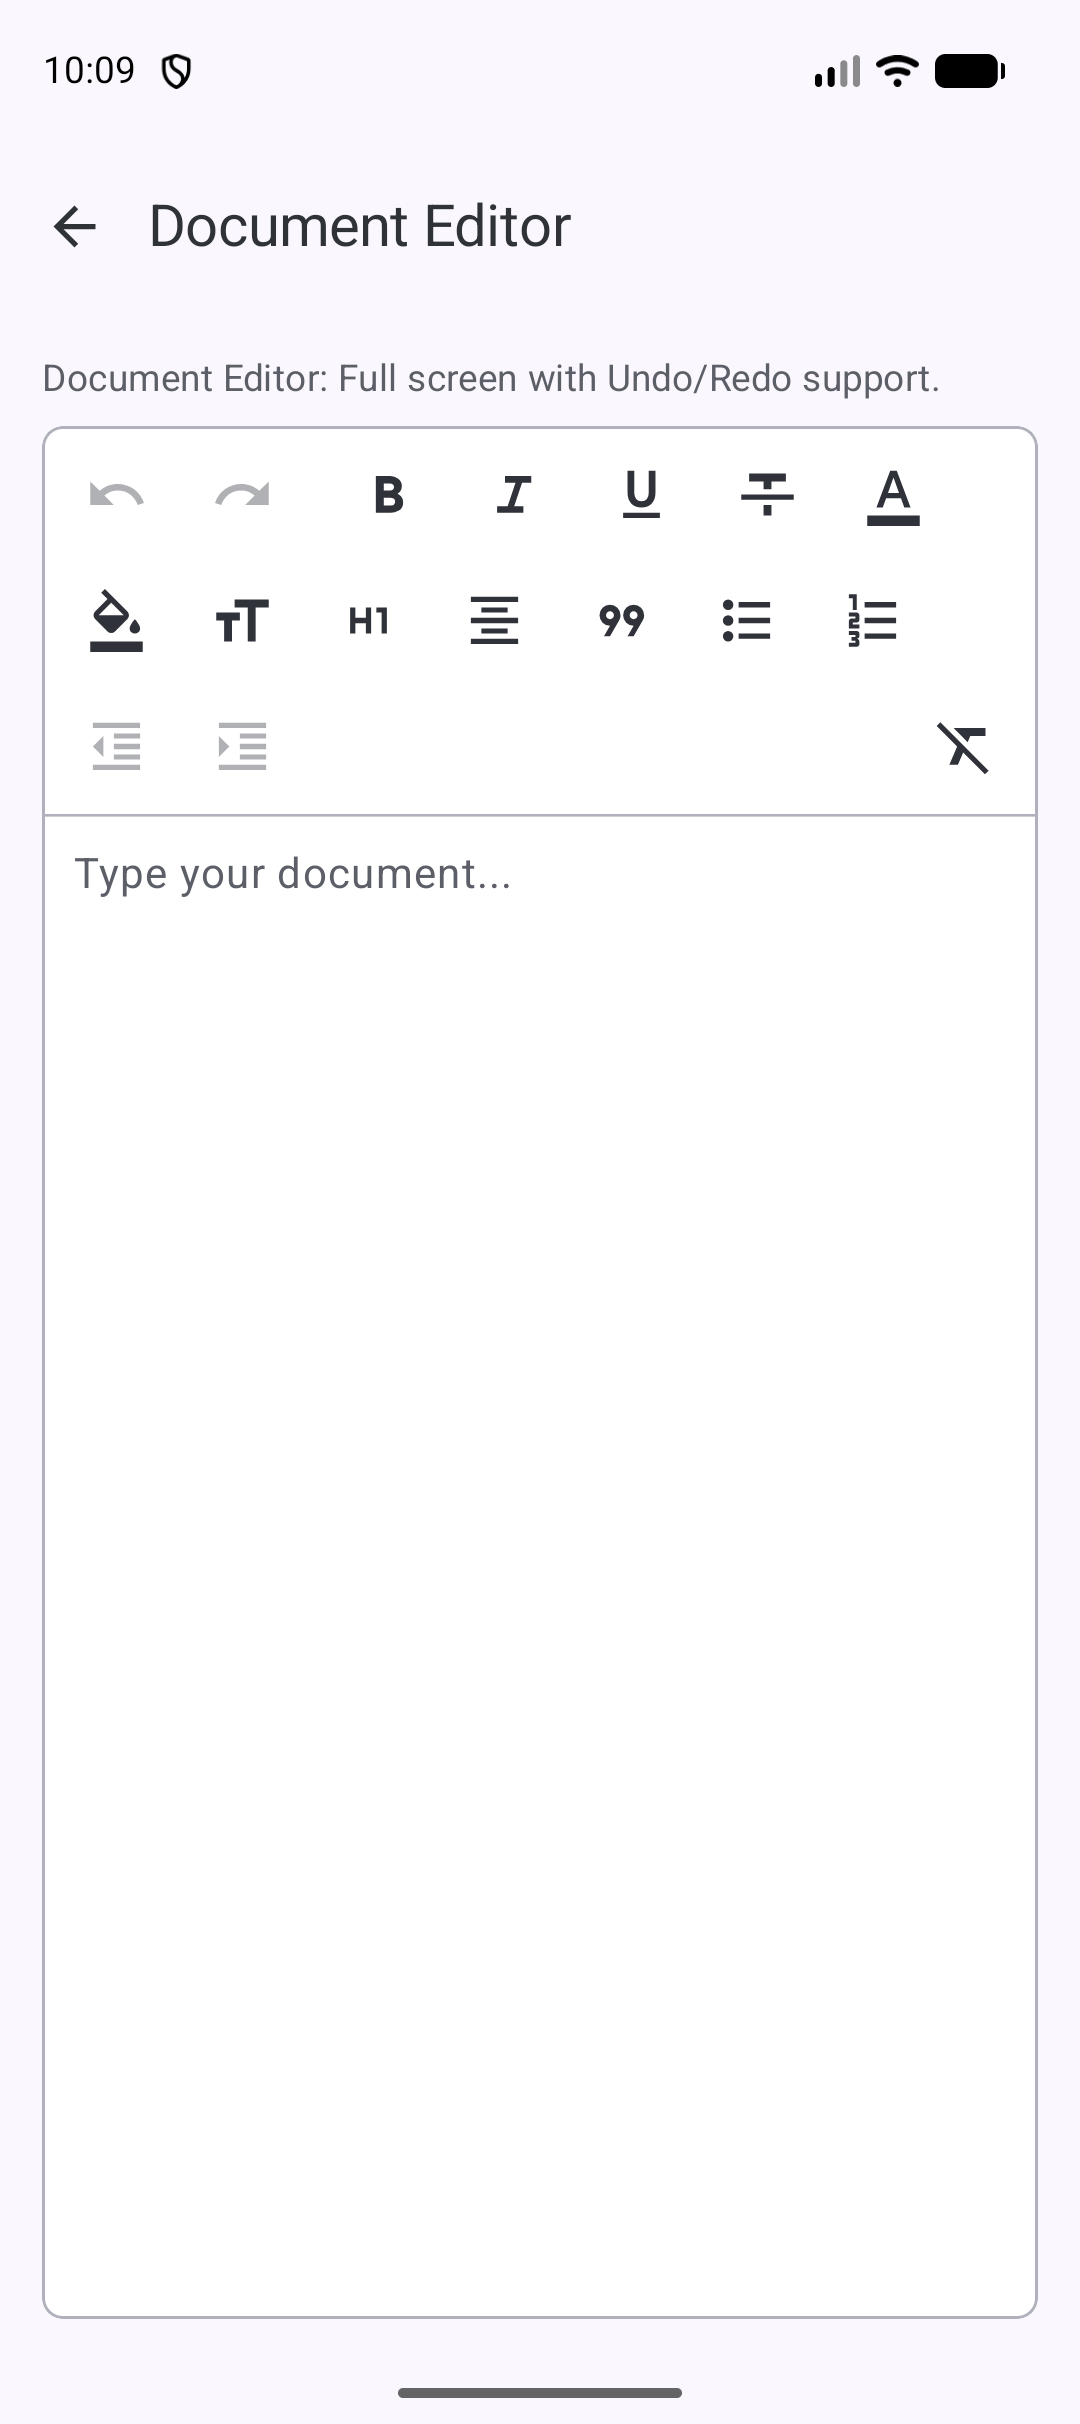
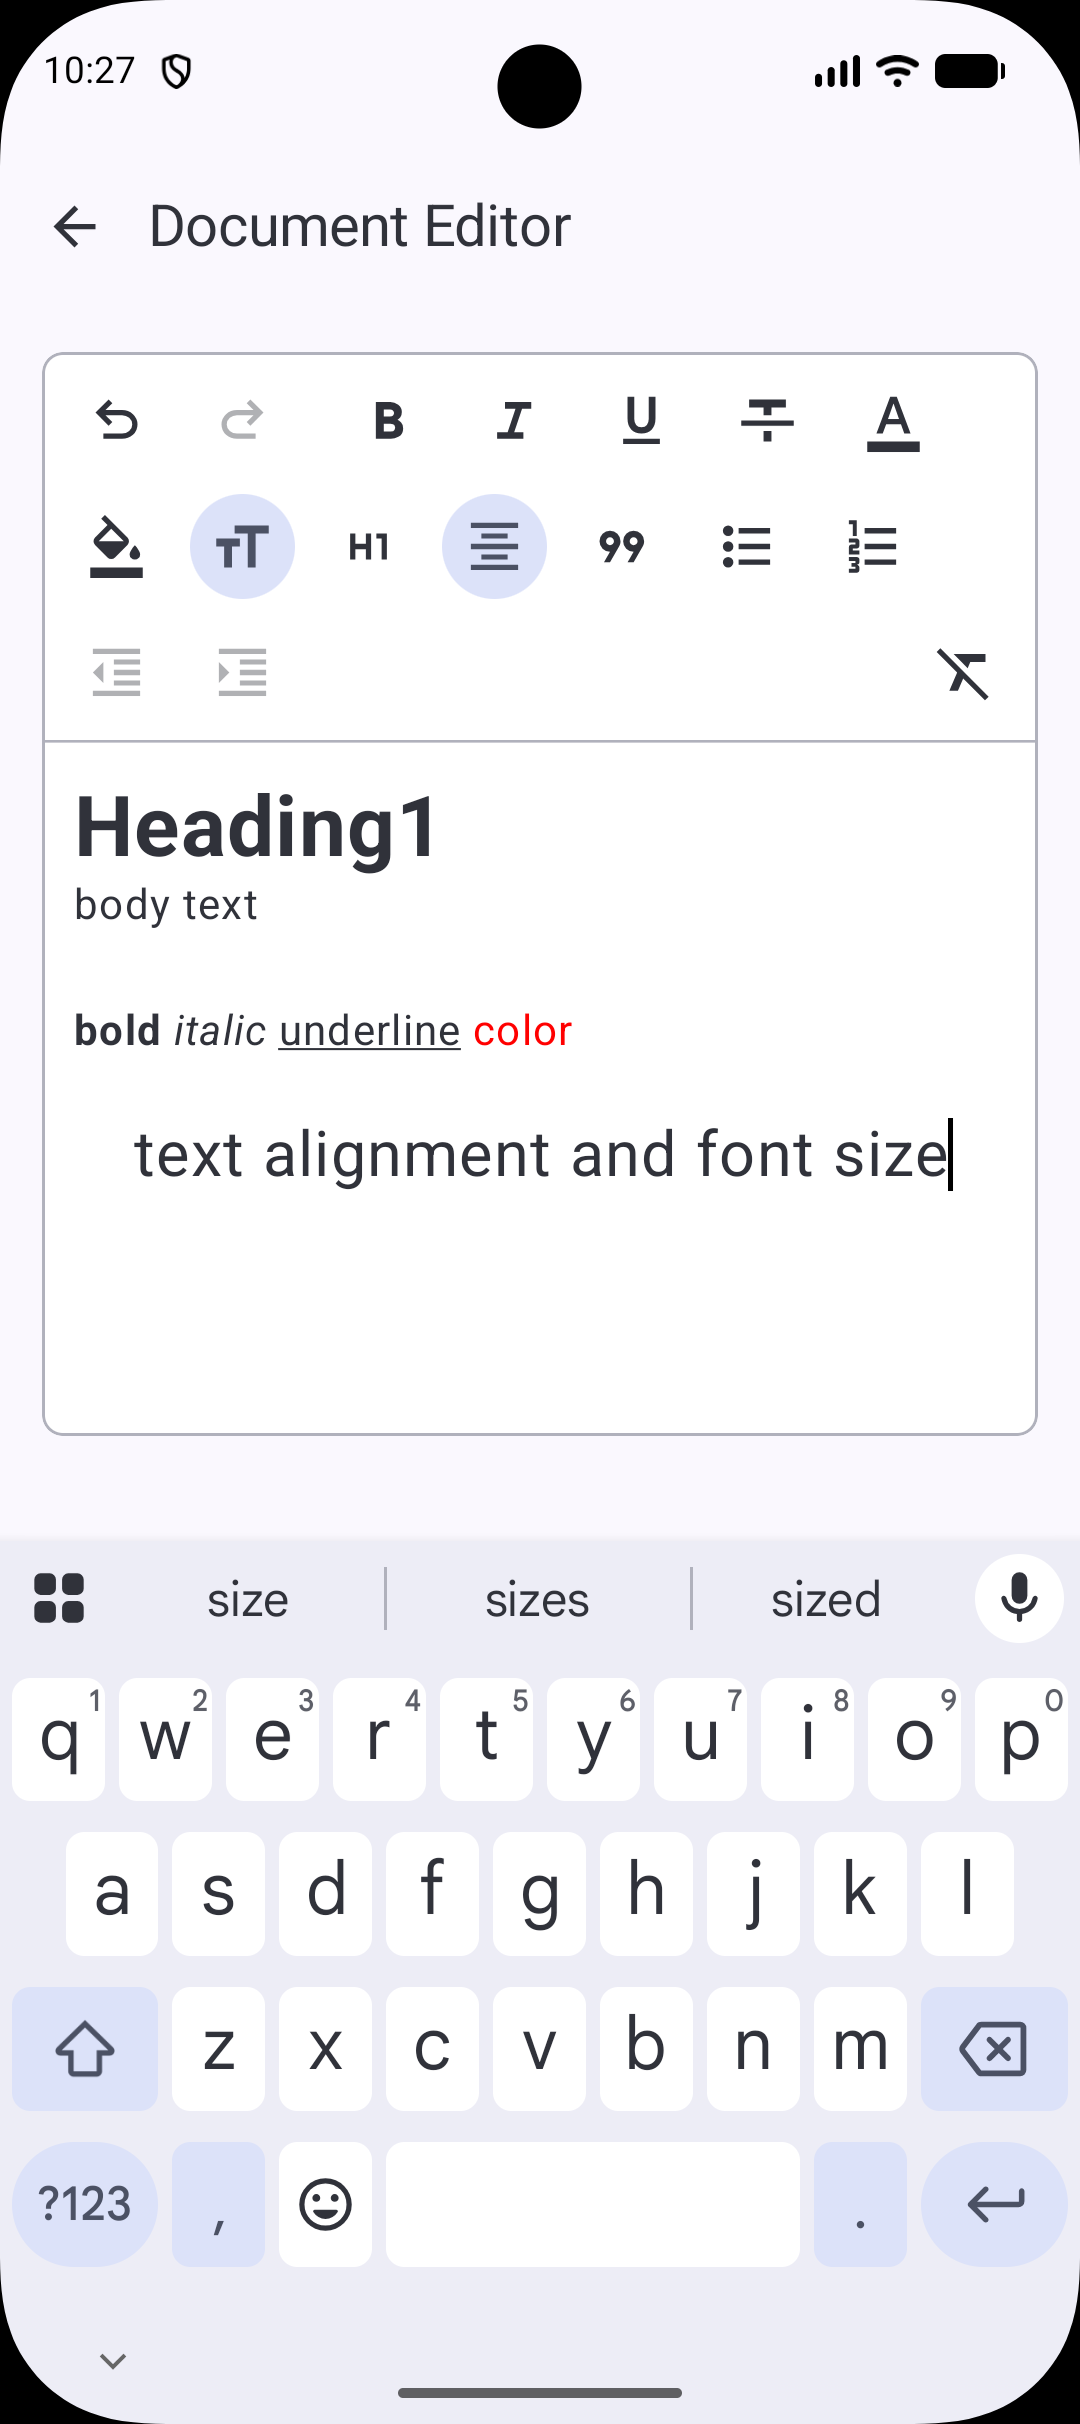
refactor: reformat DocumentEditorSample modifier and update documentation image

diff --git a/sample-app/src/main/java/dev/mkeeda/arranger/sampleApp/DocumentEditorSample.kt b/sample-app/src/main/java/dev/mkeeda/arranger/sampleApp/DocumentEditorSample.kt
@@ -65,9 +65,10 @@ fun DocumentEditorSample(modifier: Modifier = Modifier) {
 
     DocumentEditorBox(
         state = state,
-        modifier = modifier
-            .fillMaxSize()
-            .imePadding(),
+        modifier =
+            modifier
+                .fillMaxSize()
+                .imePadding(),
     )
 }
 
